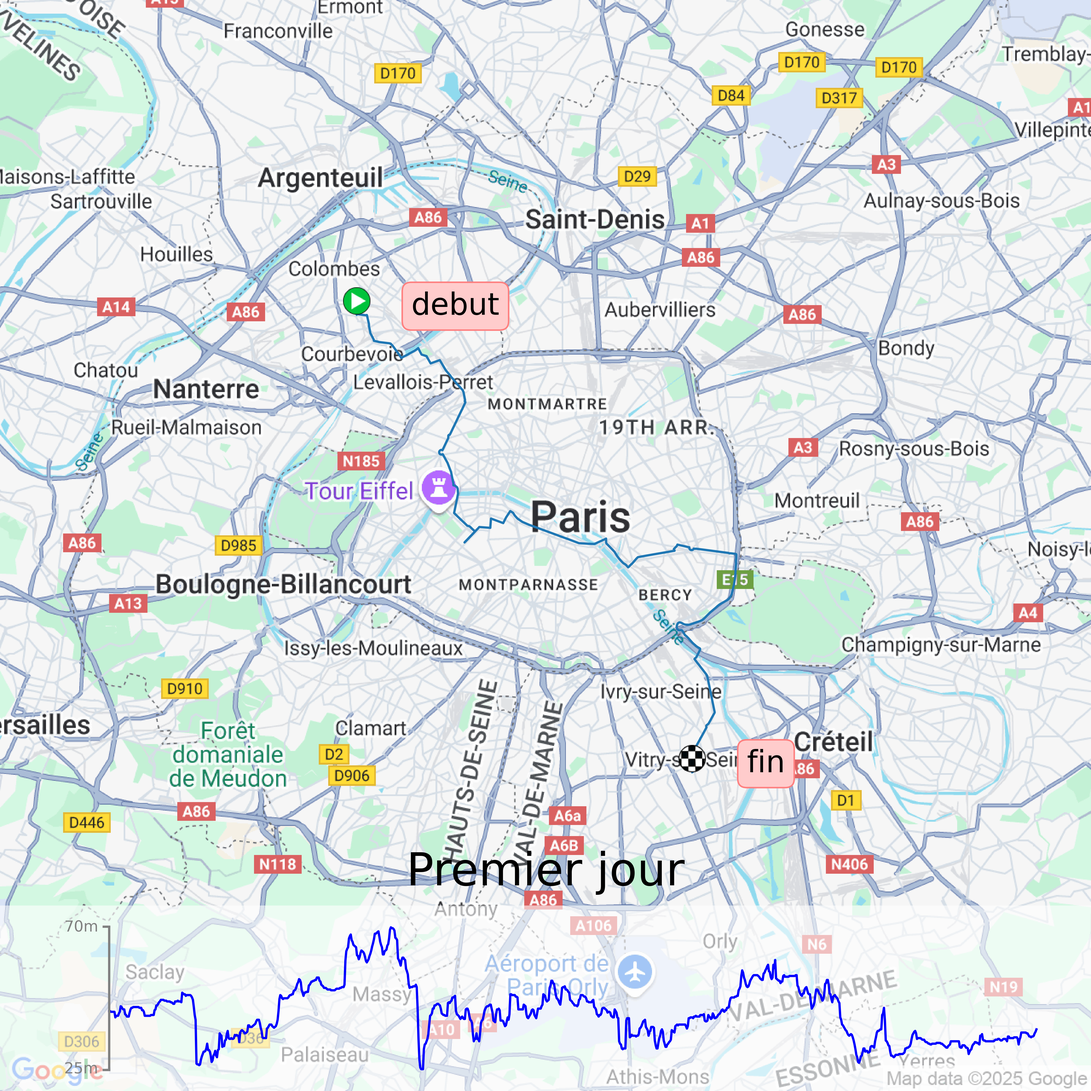
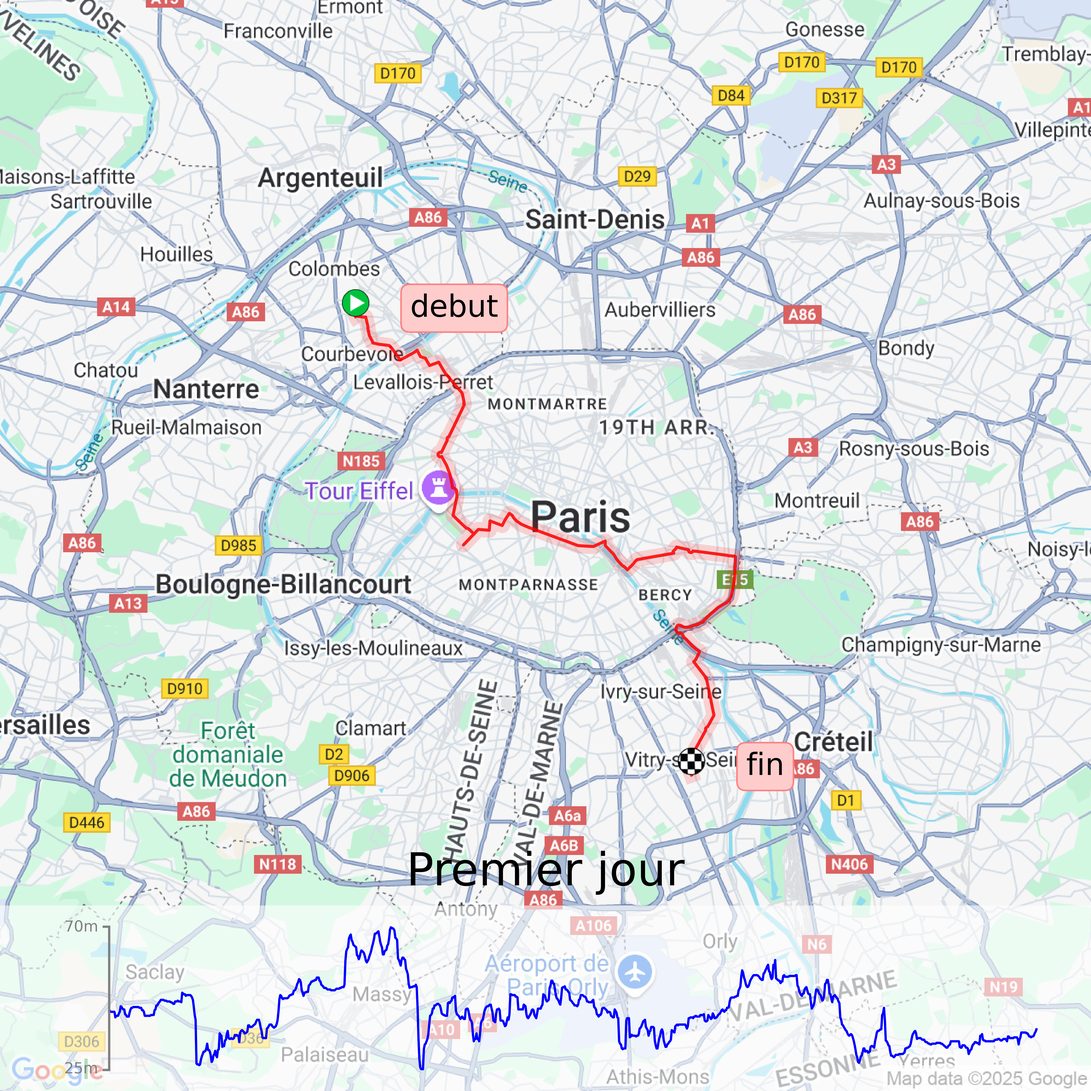
feat: add format to line

Changed region(s): [[0.3117, 0.2493, 0.6857, 0.561], [0.5922, 0.561, 0.7168, 0.748], [0.935, 0.5298, 0.9662, 0.5922]]

diff --git a/examples/example1.py b/examples/example1.py
@@ -89,11 +89,13 @@ t.addMarker(
 # 4.3 Add elevation graph
 t.addElevationGraph(height_pct=0.17, backgroundColor="white", backgroundColorAlpha=0.6)
 # 4.4 Plot points
-t.plotPoints()
+t.plotPoints(format_string="-r", linewidth=10, alpha=.15)
+t.plotPoints(format_string="-r", linewidth=2, alpha=.85)
 # 4.5 Add title
 t.addTitle("Premier jour", center_x=0.5, center_y=0.2, fontsize=30)
 # 4.6 Save map to file
 t.save("out/day_one.png")
+t.save("../images/premier_jour.png")
 # 4.7 Display map
 t.show()
 # 4.8 Close Trace

diff --git a/traceplot/src/traceplot/Trace.py b/traceplot/src/traceplot/Trace.py
@@ -228,8 +228,8 @@ class Trace:
             fontsize=fontsize,
         )
 
-    def plotPoints(self) -> None:
-        self.ax.plot([p[0] for p in self.points_px], [p[1] for p in self.points_px])
+    def plotPoints(self, format_string, **kwargs) -> None:
+        self.ax.plot([p[0] for p in self.points_px], [p[1] for p in self.points_px], format_string, **kwargs)
 
     def save(self, outfile_img_path: str) -> None:
         plt.savefig(

diff --git a/traceplot/README.md b/traceplot/README.md
@@ -47,7 +47,7 @@ t.addMarker(
     label_offset_x=0.05,
 )
 t.addElevationGraph(height_pct=0.17, backgroundColor="white", backgroundColorAlpha=0.6)
-t.plotPoints()
+t.plotPoints(format_string="-r", linewidth=6, alpha=.25)
 t.addTitle("Around Paris", center_x=0.5, center_y=0.2, fontsize=30)
 t.save("out/day_one.png")
 t.show()
